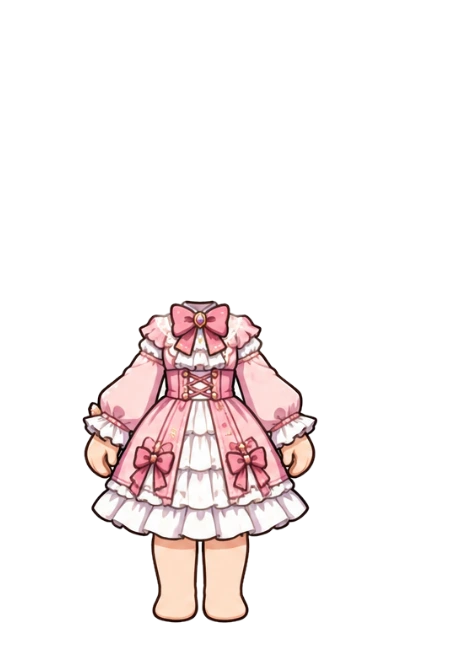
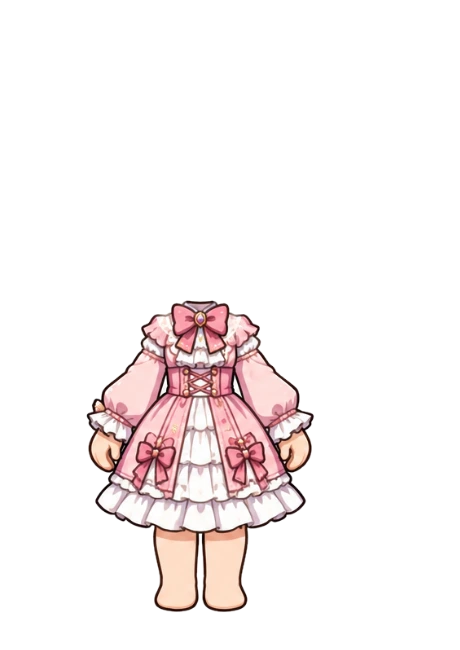
アバターのパーツを追加（頭32・身体32・ペット32・道具16）、一覧はパーツの絵だけ（まわりは透明）で名前と値段を表示
Claude-Session: https://claude.ai/code/session_01VHjFEfwVTHCUbPqPQAxvxE

Changed region(s): [[0.1826, 0.4615, 0.7, 0.9846]]

diff --git a/common/avatar-art.js b/common/avatar-art.js
@@ -14,12 +14,33 @@
   const base = pre + 'img/av3/', tbase = pre + 'img/av3t/', bgbase = pre + 'img/avatar/';
   const CATALOG = {
     head: [['h00', '桜かんざしのロング', 0], ['h01', 'メイドのツインテール', 1200], ['h02', 'ティアラの編みこみ', 1800], ['h03', 'ねこみみボブ', 1200],
-      ['h04', 'くせっ毛（茶）', 0], ['h05', 'ふわふわショート（金）', 300], ['h06', 'さらさらショート（銀）', 300], ['h07', 'ゴーグル（紺）', 1200]],
+      ['h04', 'くせっ毛（茶）', 0], ['h05', 'ふわふわショート（金）', 300], ['h06', 'さらさらショート（銀）', 300], ['h07', 'ゴーグル（紺）', 1200],
+      ['h08', '舞妓', 1800], ['h09', 'ロックスター', 1800], ['h10', '宝石のお姫さま', 2400], ['h11', 'しばいぬ乗せ', 1200],
+      ['h12', '王冠と星めがね', 1800], ['h13', 'ピエロ', 1800], ['h14', '星のおだんご', 1200], ['h15', 'びっくり顔', 1200],
+      ['h16', '縦ロールの姫', 1800], ['h17', 'ゴーグルのウインク', 1200], ['h18', 'なみだのメイド', 1200], ['h19', '赤髪の戦士', 1200],
+      ['h20', '魔女の帽子', 1800], ['h21', 'シルクハットの貴公子', 1800], ['h22', 'ロリータボンネット', 1800], ['h23', '月桂冠の銀髪', 1800],
+      ['h24', 'おかっぱ', 300], ['h25', '花かんざしの姫', 1800], ['h26', 'ちょんまげ', 1200], ['h27', '巫女', 1200],
+      ['h28', '笠の旅人', 1200], ['h29', 'きつね面', 1800], ['h30', '桜の髪かざり', 1200], ['h31', 'かぶと', 2400]],
     body: [['b00', 'ロリータドレス（桃）', 1200], ['b01', 'セーラー服', 0], ['b02', 'はかま（赤）', 1800], ['b03', 'プリンセスドレス（藤）', 2400],
-      ['b04', '王子の軍服', 2400], ['b05', 'ネオンパーカー', 0], ['b06', '紋付きはかま', 1800], ['b07', '騎士のよろい', 2400]],
+      ['b04', '王子の軍服', 2400], ['b05', 'ネオンパーカー', 0], ['b06', '紋付きはかま', 1800], ['b07', '騎士のよろい', 2400],
+      ['b08', 'ピエロ', 1800], ['b09', 'きょうりゅう着ぐるみ', 1800], ['b10', 'ミラーボールスーツ', 2400], ['b11', 'スーパーヒーロー', 2400],
+      ['b12', 'ハンバーガー', 1800], ['b13', '白黒タキシード', 1800], ['b14', 'アイドル衣装', 2400], ['b15', 'もこもこパジャマ', 1200],
+      ['b16', '水色のドレス', 2400], ['b17', '白い軍服', 2400], ['b18', 'メイド服', 1800], ['b19', '執事の燕尾服', 1800],
+      ['b20', '魔法使いのローブ', 1800], ['b21', '白銀の騎士', 2400], ['b22', '聖女のローブ', 2400], ['b23', '森の冒険者', 1200],
+      ['b24', '振袖（桃）', 1800], ['b25', 'ゆかた（紺）', 1200], ['b26', 'はかま（藤）', 1200], ['b27', '巫女装束', 1800],
+      ['b28', '忍び装束', 1800], ['b29', '紋付きはかま（黒）', 1800], ['b30', 'はっぴ', 300], ['b31', 'じんべえ', 300]],
     pet: [['none', 'なし', 0], ['p00', '天使ねこ', 1800], ['p01', '子ドラゴン', 2400], ['p02', 'さくらうさぎ', 1200], ['p03', '魔法スライム', 1800],
-      ['p04', 'ふくろう', 1200], ['p05', '九尾のきつね', 2400], ['p06', 'パンダ', 1200], ['p07', '星ねこ', 1800]],
-    tool: [['none', 'なし', 0]],
+      ['p04', 'ふくろう', 1200], ['p05', '九尾のきつね', 2400], ['p06', 'パンダ', 1200], ['p07', '星ねこ', 1800],
+      ['p08', 'UFOの宇宙人', 1800], ['p09', 'にじハムスター', 1800], ['p10', 'にじ雲', 1200], ['p11', 'プロペラひよこ', 1200],
+      ['p12', 'あわスライム', 300], ['p13', '空飛ぶぶた', 1200], ['p14', 'パーティードラゴン', 2400], ['p15', 'クラッカーあらいぐま', 1200],
+      ['p16', 'にっこり天使ねこ', 1800], ['p17', 'なみだの子いぬ', 300], ['p18', '手品うさぎ', 1200], ['p19', 'ねむりふくろう', 1200],
+      ['p20', 'わらう子ドラゴン', 2400], ['p21', 'ユニコーン', 2400], ['p22', 'りんごハリネズミ', 1200], ['p23', 'おこりおおかみ', 1200],
+      ['p24', 'しばいぬ', 300], ['p25', '三毛ねこ', 300], ['p26', '白ぎつね', 1800], ['p27', 'たぬき', 1200],
+      ['p28', 'つる', 1800], ['p29', 'にしきごい', 1800], ['p30', 'まねきねこ', 1800], ['p31', 'からかさおばけ', 1200]],
+    tool: [['none', 'なし', 0], ['t00', 'アヒル', 300], ['t01', 'ぐるぐるキャンディ', 300], ['t02', 'カラオケマイク', 1200], ['t03', 'かざぐるま', 300],
+      ['t04', 'シャボン玉マシン', 1200], ['t05', 'バナナ電話', 1200], ['t06', 'クラッカー', 300], ['t07', 'ミラーボール', 1800],
+      ['t08', '竹かご', 300], ['t09', 'ふろしき', 300], ['t10', 'あんどん', 1200], ['t11', '茶釜', 1800],
+      ['t12', '手おけ', 300], ['t13', '扇子', 1200], ['t14', '漆の箱', 1800], ['t15', '和傘立て', 1200]],
     bg: [['none', 'なし', 0]].concat(['白いスタジオ', '草原', '桜並木', '南の海', '雪の森', 'お城', '魔法の門', '夜の街', '神社', 'ネオン街', 'カフェ', '教室', '子ども部屋', '図書館', 'ステージ', '夏祭り', 'ハロウィン', '海の底', '宇宙', '雲の上のお城']
       .map((name, i) => ['bg' + String(i).padStart(2, '0'), name, [1200, 1200, 1200, 1200, 1200, 1800, 2400, 1800, 1200, 1800, 1200, 1200, 1200, 1200, 1800, 1800, 1800, 2400, 2400, 2400][i]]))
   };

diff --git a/style.css b/style.css
@@ -1417,3 +1417,14 @@ body.fx-shake #app { animation: fxShake .35s; }
 .diary-bar span { color: var(--kin); font-size: 17px; }
 .diary-bar i { margin-left: auto; font-style: normal; color: var(--kin); font-size: 20px; }
 .diary-bar:active { transform: scale(.98); }
+
+/* 着せかえの一覧：パーツの絵だけ（まわりは透明）。下に名前と値段 */
+#avGrid2 .av-item { position: relative; background: transparent; border: 0; padding: 2px 2px 6px; }
+#avGrid2 .av-item .av-thumb { background: transparent; border-radius: 0; filter: drop-shadow(0 3px 6px rgba(0, 0, 0, .35)); }
+#avGrid2 .av-item.on .av-thumb { filter: drop-shadow(0 0 6px var(--kin)) drop-shadow(0 0 2px var(--kin)); }
+#avGrid2 .av-item.on b { color: var(--kin); }
+#avGrid2 .av-item b { text-shadow: 0 1px 4px rgba(0, 0, 0, .8); line-height: 1.25; text-align: center; }
+#avGrid2 .av-item .price { font-size: 12px; font-weight: 900; color: var(--kin); text-shadow: 0 1px 4px rgba(0, 0, 0, .8); }
+.av-own { position: absolute; top: 4px; right: 4px; font-style: normal; font-size: 10px; font-weight: 900; color: #3a2410; background: var(--kin); border-radius: 999px; padding: 1px 7px; }
+#avGrid2 .av-item, #avGrid2 .av-item.on { aspect-ratio: auto; overflow: visible; height: auto; border: 0; background: transparent; box-shadow: none; }
+#avGrid2 { grid-auto-rows: max-content !important; align-items: start; row-gap: 14px; }

diff --git a/common/avatar.js b/common/avatar.js
@@ -80,10 +80,9 @@
         const have = owned(sl, id), wearing = look[sl] === id;
         const preview = Object.assign({}, look, { [sl]: id });
         return `<button type="button" class="av-item ${wearing ? 'on' : ''}" data-sl="${sl}" data-id="${id}">${AV.thumb(preview, slot)}<b>${name}</b>` +
-          `<small class="${have ? 'own' : 'price'}">${have ? (wearing ? '着ている' : '持っている') : price.toLocaleString() + ' 銭'}</small></button>`;
+          `<small class="price">${price ? price.toLocaleString() + ' 銭' : '無料'}</small>${have ? `<i class="av-own">${wearing ? '着ている' : '持っている'}</i>` : ''}</button>`;
       }).join('');
     }
-    if (slot === 'tool') h += '<p class="av-sec">道具は準備中です。お楽しみに！</p>';
     if (mode === 'closet') h += `<button type="button" class="av-goshop" data-goshop="1">ほかの${SLOT_NAME[slot] || ''}は、服ショップで買えます →</button>`;
     $('#avGrid2').innerHTML = h;
     const need = mode === 'shop' ? unowned() : [];

diff --git a/tools/avatar-v3/place2.py b/tools/avatar-v3/place2.py
@@ -1,0 +1,84 @@
+import cv2, numpy as np, os, json
+from PIL import Image
+from scipy import ndimage as ndi
+OUT = '/home/claude/igo-battle/img/av3/'; TH = '/home/claude/igo-battle/img/av3t/'
+W, H = 460, 650; NECK, FEET = 300, 622
+SETS = {'body': ['body1', 'body2', 'body3', 'body4'], 'head': ['head1', 'head2', 'head3', 'head4'], 'pet': ['pet1', 'pet2', 'pet3', 'pet4'], 'tool': ['tool2', 'tool4']}
+PFX = {'body': 'b', 'head': 'h', 'pet': 'p', 'tool': 't'}
+def hsv(rgb): return cv2.cvtColor(np.ascontiguousarray(rgb[..., ::-1]), cv2.COLOR_BGR2HSV).astype(int)
+def skin(rgb):
+    h = hsv(rgb); return (h[..., 0] >= 4) & (h[..., 0] <= 24) & (h[..., 1] >= 14) & (h[..., 1] <= 110) & (h[..., 2] >= 215)
+def put(rgba, s, tx, ty, name):
+    im = rgba.astype(np.float32); im[..., :3] *= im[..., 3:4] / 255
+    o = cv2.warpAffine(im, np.float32([[s, 0, tx], [0, s, ty]]), (W, H), flags=cv2.INTER_AREA if s < 1 else cv2.INTER_CUBIC, borderValue=0)
+    a = np.clip(o[..., 3], 0, 255); rgb = np.where(a[..., None] > 1, o[..., :3] / np.maximum(a[..., None], 1) * 255, 0)
+    Image.fromarray(np.dstack([np.clip(rgb, 0, 255), a]).astype(np.uint8)).save(OUT + name + '.webp', quality=92, method=4)
+def thumb(rgba, name):
+    im = Image.fromarray(rgba); s = 150 / max(im.size); im = im.resize((max(1, int(im.width * s)), max(1, int(im.height * s))), Image.LANCZOS)
+    t = Image.new('RGBA', (160, 160)); t.alpha_composite(im, ((160 - im.width) // 2, (160 - im.height) // 2)); t.save(TH + name + '.webp', quality=85)
+def hands(b):
+    """両手（外側にある肌のかたまり）の、下の端と左右の真ん中"""
+    a = b[..., 3] > 128; S = skin(b[..., :3]) & a; S = ndi.binary_opening(S, iterations=2)
+    ys, xs = np.nonzero(a); top = ys.min(); w = xs.max() - xs.min(); cx = (xs.min() + xs.max()) / 2
+    lab, n = ndi.label(S); best = []
+    for i in range(1, n + 1):
+        yy, xx = np.nonzero(lab == i)
+        if len(yy) < 80: continue
+        mx = xx.mean()
+        if abs(mx - cx) < .22 * w or yy.mean() < top + .2 * (ys.max() - top): continue
+        best.append((len(yy), mx, yy.max(), yy.mean()))
+    L = max([q for q in best if q[1] < cx], default=None); R = max([q for q in best if q[1] > cx], default=None)
+    if not L or not R: return None
+    return top, (L[1] + R[1]) / 2, (L[3] + R[3]) / 2, R[1] - L[1]
+# 基準：最初の8つの身体（足まで描かれている）で、首→手の高さを決める
+ref = []
+for k in range(8):
+    b = np.asarray(Image.open(f'cut/body1_{k}.png')); h = hands(b); ys = np.nonzero(b[..., 3] > 128)[0]
+    s = (FEET - NECK) / (ys.max() - ys.min()); ref.append(((h[2] - h[0]) * s, h[3] * s))
+HAND_Y = float(np.median([r[0] for r in ref])); HAND_W = float(np.median([r[1] for r in ref]))
+print('hand y', HAND_Y, 'hand span', HAND_W)
+meta = {}
+HEADS = {}
+FIX = {'h09': (1.12, -22)}   # 目で見て直したもの（大きさ、上下）
+for kind, srcs in SETS.items():
+    i = 0; meta[kind] = []
+    for src in srcs:
+        for k in range(8):
+            p = np.asarray(Image.open(f'cut/{src}_{k}.png')); name = f'{PFX[kind]}{i:02d}'; i += 1
+            if kind == 'body':
+                h = hands(p)
+                if h is None:
+                    ys, xs = np.nonzero(p[..., 3] > 128); s = (FEET - NECK) / (ys.max() - ys.min()); top, cx = ys.min(), (xs.min() + xs.max()) / 2; note = 'feet'
+                else:
+                    top, cx, hy, hw = h; sh = (HAND_Y / (hy - top) + HAND_W / hw) / 2
+                    ys = np.nonzero(p[..., 3] > 128)[0]; sf = (FEET - NECK) / (ys.max() - ys.min())
+                    s = min(sh, sf); note = 'hands' if sh < sf else 'feet'   # 足のない着物は手で、手がうまく見つからないときは足で
+                put(p, s, 200 - cx * s, NECK - top * s, name)
+            elif kind == 'head':
+                S = skin(p[..., :3]) & (p[..., 3] > 200); S = ndi.binary_opening(S, iterations=2)
+                lab, n = ndi.label(S); sz = ndi.sum(S, lab, range(1, n + 1)) if n else []
+                ys, xs = np.nonzero(p[..., 3] > 128); bw = xs.max() - xs.min()
+                ok = n and max(sz) > .06 * len(ys)
+                if ok:
+                    F = lab == (np.argmax(sz) + 1); fy, fx = np.nonzero(F); fw = fx.max() - fx.min()
+                    ok = fw > .3 * bw
+                if not ok:
+                    # 白ぬりの顔：白っぽい所でさがす
+                    hh = hsv(p[..., :3]); Wm = (hh[..., 1] < 45) & (hh[..., 2] > 225) & (p[..., 3] > 200)
+                    Wm = ndi.binary_opening(Wm, iterations=3); lab, n = ndi.label(Wm); sz = ndi.sum(Wm, lab, range(1, n + 1))
+                    F = lab == (np.argmax(sz) + 1); fy, fx = np.nonzero(F); note = 'white'
+                else: note = 'skin'
+                fw = fx.max() - fx.min(); s = 150 / fw; cx = (fx.min() + fx.max()) / 2
+                HEADS.setdefault(src, []).append((name, p, s, cx, fy.max()))
+                if k == 7:
+                    med = float(np.median([q[2] for q in HEADS[src]]))
+                    for nm, pp, ss, ccx, chin in HEADS[src]:
+                        if abs(ss / med - 1) > .12: print('head scale fix', nm, round(ss / med, 2)); ss = med
+                        f, dy = FIX.get(nm, (1, 0)); ss *= f
+                        put(pp, ss, 200 - ccx * ss, 314 - chin * ss + dy, nm)
+            elif kind == 'pet':
+                s = 118 / max(p.shape[0], p.shape[1] * .85); put(p, s, 372 - p.shape[1] * s / 2, 250 - p.shape[0] * s / 2, name); note = ''
+            else:
+                s = 112 / max(p.shape[0], p.shape[1]); put(p, s, 92 - p.shape[1] * s / 2, 470 - p.shape[0] * s / 2, name); note = ''
+            thumb(p, name); meta[kind].append(note)
+print(json.dumps(meta))

diff --git a/tools/avatar-v3/cut2.py b/tools/avatar-v3/cut2.py
@@ -1,0 +1,43 @@
+# 白い背景は外とつながった白を消す。暗い背景は GrabCut（マスのふちを背景として）
+import cv2, numpy as np, os, sys
+from scipy import ndimage as ndi
+from PIL import Image
+os.makedirs('cut', exist_ok=True)
+def white(im):
+    hsv = cv2.cvtColor(im, cv2.COLOR_BGR2HSV)
+    pale = (hsv[..., 1] < 18) & (hsv[..., 2] > 238)
+    lab, n = ndi.label(pale); edge = set(np.unique(np.concatenate([lab[0], lab[-1], lab[:, 0], lab[:, -1]]))) - {0}
+    return ndi.binary_opening(~np.isin(lab, list(edge)), iterations=1)
+def dark_cell(cell):
+    """背景はなめらかなぼかし。絵は輪郭線でかこまれている → 線を見つけて、中をうめる"""
+    g = cv2.cvtColor(cell, cv2.COLOR_BGR2GRAY)
+    e = cv2.Canny(cv2.GaussianBlur(g, (3, 3), 0), 40, 110) > 0
+    e[:6] = e[-6:] = False; e[:, :6] = e[:, -6:] = False
+    c = ndi.binary_closing(ndi.binary_dilation(e, iterations=2), iterations=3)
+    f = ndi.binary_fill_holes(c)
+    f = ndi.binary_erosion(f, iterations=2)
+    lab, n = ndi.label(f)
+    if n: sz = ndi.sum(f, lab, range(1, n + 1)); f = np.isin(lab, [i + 1 for i, q in enumerate(sz) if q > .03 * sz.max()])
+    return f
+for name in sys.argv[1:]:
+    im = cv2.imread(f'src/{name}.png', cv2.IMREAD_UNCHANGED)[..., :3]; H, W = im.shape[:2]
+    corner = cv2.cvtColor(im[:20, :20], cv2.COLOR_BGR2HSV)[..., 2].mean()
+    darkbg = corner < 150
+    if not darkbg:
+        fg = white(im); alpha = cv2.GaussianBlur(fg.astype(np.float32), (3, 3), .7)
+        cl, n = ndi.label(fg); com = ndi.center_of_mass(fg, cl, range(1, n + 1)); sz = ndi.sum(fg, cl, range(1, n + 1))
+    for k in range(8):
+        r, c = divmod(k, 4)
+        x0c, x1c, y0c, y1c = int(c * W / 4), int((c + 1) * W / 4), int(r * H / 2), int((r + 1) * H / 2)
+        if darkbg:
+            cell = im[y0c:y1c, x0c:x1c]; f = dark_cell(cell)
+            a = cv2.GaussianBlur(f.astype(np.float32), (3, 3), .8)
+            ys, xs = np.nonzero(f); y0, y1, x0, x1 = ys.min(), ys.max() + 1, xs.min(), xs.max() + 1
+            rgba = np.dstack([cell[y0:y1, x0:x1, ::-1], (a[y0:y1, x0:x1] * 255).astype(np.uint8)])
+        else:
+            ids = [i + 1 for i in range(n) if sz[i] > 15 and int(com[i][1] // (W / 4)) == c and int(com[i][0] // (H / 2)) == r]
+            m = np.isin(cl, ids); m = ndi.binary_dilation(m, iterations=2) & (alpha > 0)
+            ys, xs = np.nonzero(m); y0, y1, x0, x1 = ys.min(), ys.max() + 1, xs.min(), xs.max() + 1
+            rgba = np.dstack([im[y0:y1, x0:x1, ::-1], ((alpha * m)[y0:y1, x0:x1] * 255).astype(np.uint8)])
+        Image.fromarray(rgba).save(f'cut/{name}_{k}.png')
+    print(name, 'dark' if darkbg else 'white')
